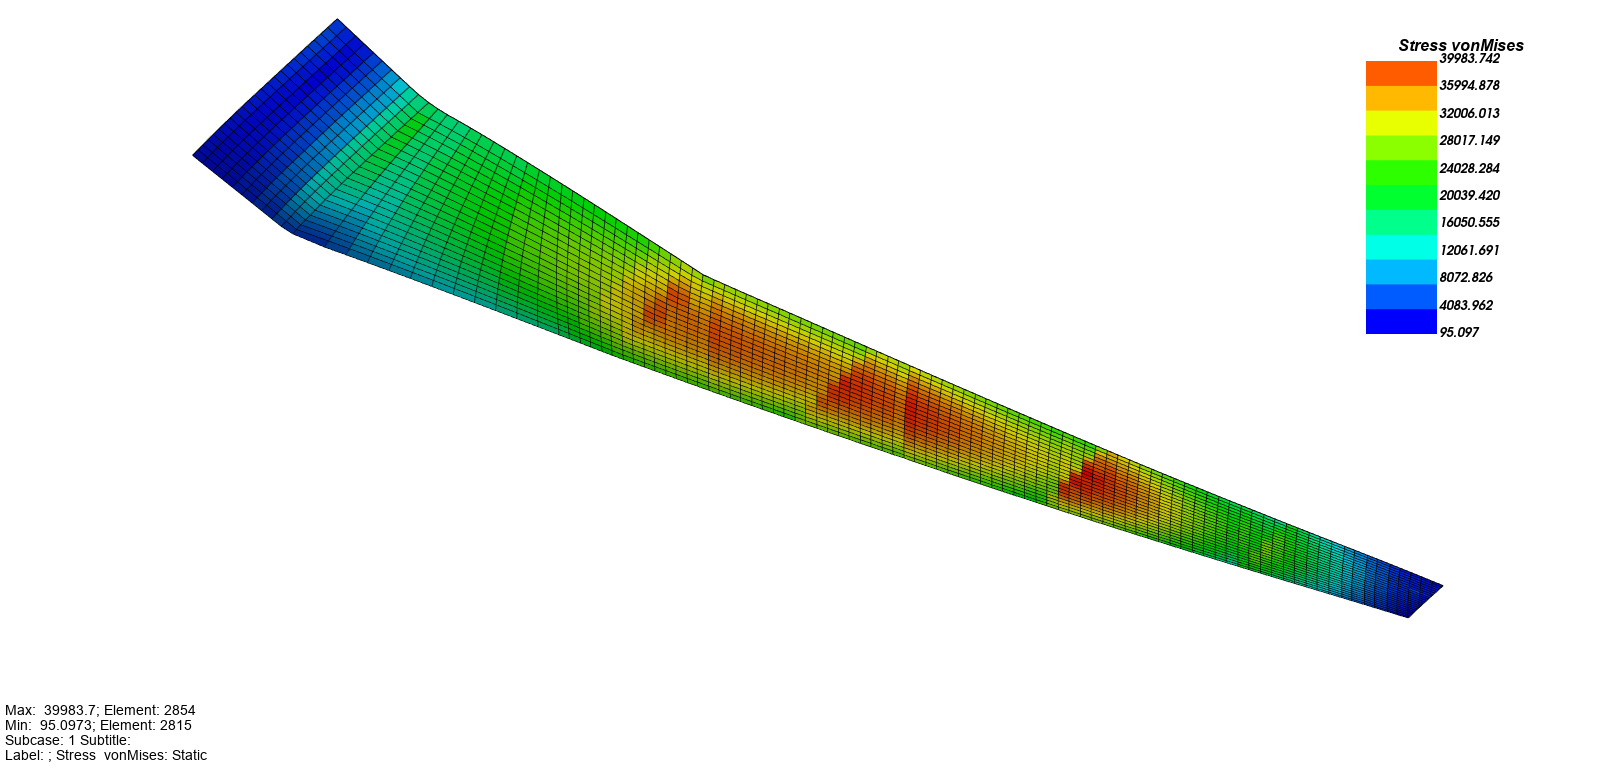
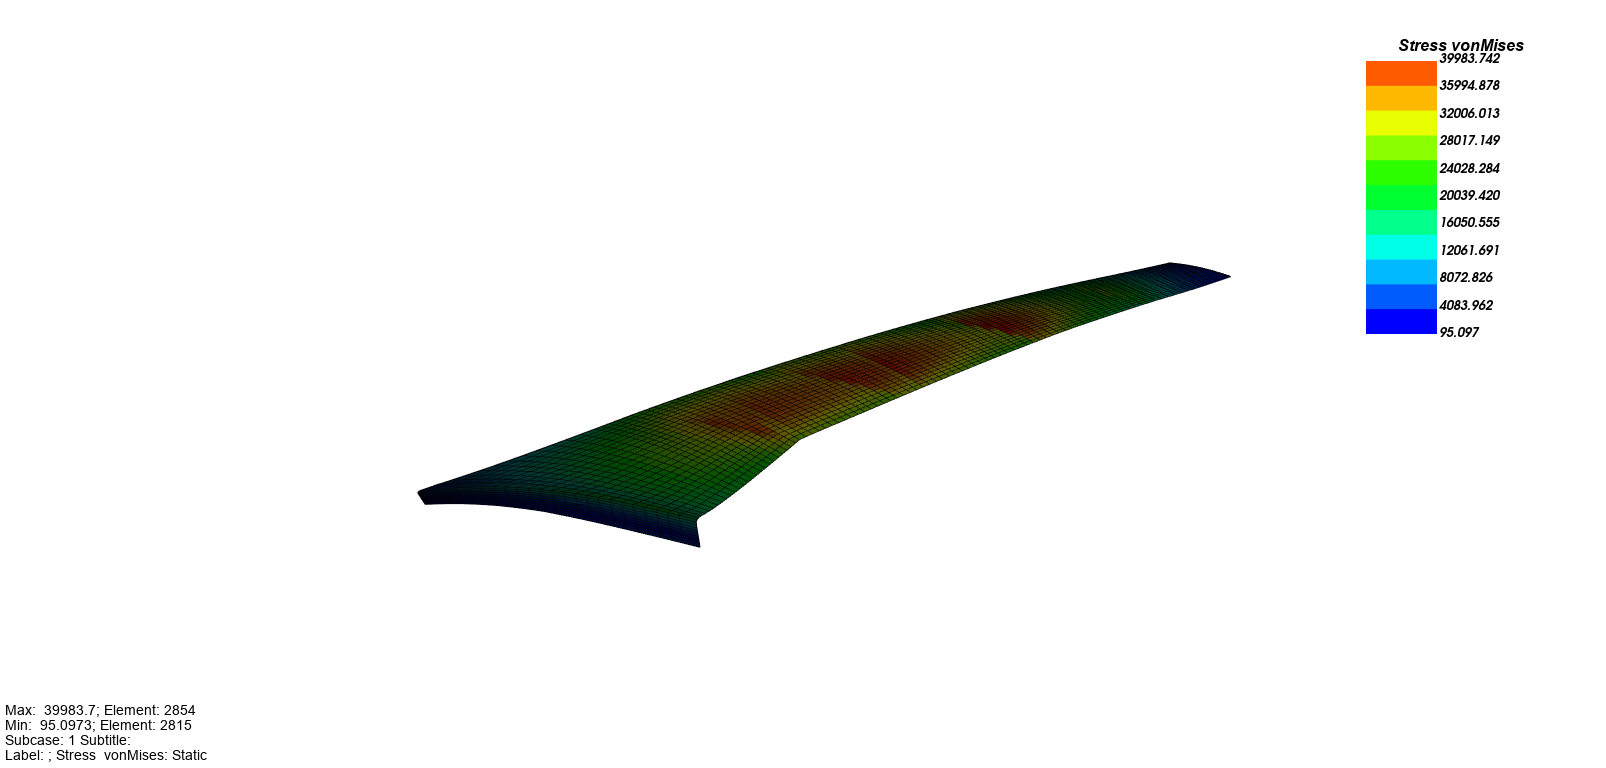
Blog: regenerate flat-panel isolated stress contours with the planform camera (#33)
Investigated applying the "planform" camera (added for the case-study
overview) to the other stress-contour renders too, rather than assuming
it's a universal improvement. Rendered every candidate before deciding:

- Full-model contours (stress, displacement): rejected. Isolating just
  the lower skin under "planform" and comparing against the full-model
  render with the upper skin hidden showed the two are visually almost
  identical -- meaning the "planform" full-model view doesn't reliably
  distinguish which surface's stress is on screen, undermining the whole
  reason render_stress_contour's "auto" camera exists here (guaranteed,
  unambiguous visibility of the governing element). Kept "auto".
- Isolated RIBS and Stiffeners: rejected. Both are made of thin members
  oriented close to the planform view's sightline (chordwise ribs,
  mostly-spanwise bars) -- rendering confirmed they collapse into an
  unreadable overlapping mess under "planform", which is exactly the
  overlap "auto"'s fan-out/frame-fit logic exists to avoid. Kept "auto".
- Isolated flat panels (Skin_LWR, Skin_UPR, ShearWebs, Spars_LETE):
  accepted. Each is a single, mostly-planar component with nothing else
  in the scene to disambiguate against -- "planform" reads at least as
  cleanly as "auto" did, and now shares the case-study overview's angle
  for visual consistency. Regenerated these four assets and updated their
  captions/summary paragraph accordingly.

Changed region(s): [[0.1245, 0.0312, 0.9029, 0.8125]]

diff --git a/docs/_posts/2026-08-08-ai-driven-fea-nasa-crm-wingbox.md b/docs/_posts/2026-08-08-ai-driven-fea-nasa-crm-wingbox.md
@@ -254,7 +254,10 @@ How `isolate_groups` handles a resolved element set:
   reported as a specific message rather than attempted as a render.
 
 Every real (non-mass) group, each rendered with a correctly framed stress
-contour:
+contour. The flat panel groups below (skins, shear webs, spars) use
+`camera="planform"` -- the same NASA-report-style angle as the case-study
+overview, which reads cleanly for a single flat component isolated on its
+own:
 
 <img src="https://ai-for-engineering.github.io/nastran-fea/assets/wingbox_skin_lwr_stress.png" alt="Von Mises stress contour on the lower skin panel" style="max-width:100%;">
 
@@ -279,12 +282,17 @@ element 2854.*
 *Stiffeners (14,134 CBAR) — colored by axial stress (`result="axial"`).
 Peak: 32,980.1 psi (227.4 MPa), element 1559935; the bipolar scale (min
 -31,611.7 psi) reflects axial stress carrying a sign (tension/compression),
-unlike von Mises.*
+unlike von Mises. This group keeps `camera="auto"` rather than
+`"planform"` -- a planform angle looks nearly straight down the length of
+these mostly-spanwise bars, collapsing them into an unreadable overlapping
+mess; `"auto"` fits the frame to the actual selection instead.*
 
 Every render above used the same `render_stress_contour` call, varying
-`isolate_groups` (and, for the all-bar Stiffeners group, `result="axial"`
-in place of the default `"von_mises"`). Per-component peak stresses (same
-`get_max_stress` call against each group's trimmed OP2) are tabulated in
+`isolate_groups`, `camera` (`"planform"` for the flat panels,
+`"auto"` for the all-bar Stiffeners group), and `result` (`"axial"` in
+place of the default `"von_mises"`, also for Stiffeners). Per-component
+peak stresses (same `get_max_stress` call against each group's trimmed
+OP2) are tabulated in
 Peak stress by component above.
 
 ## Honest caveats
